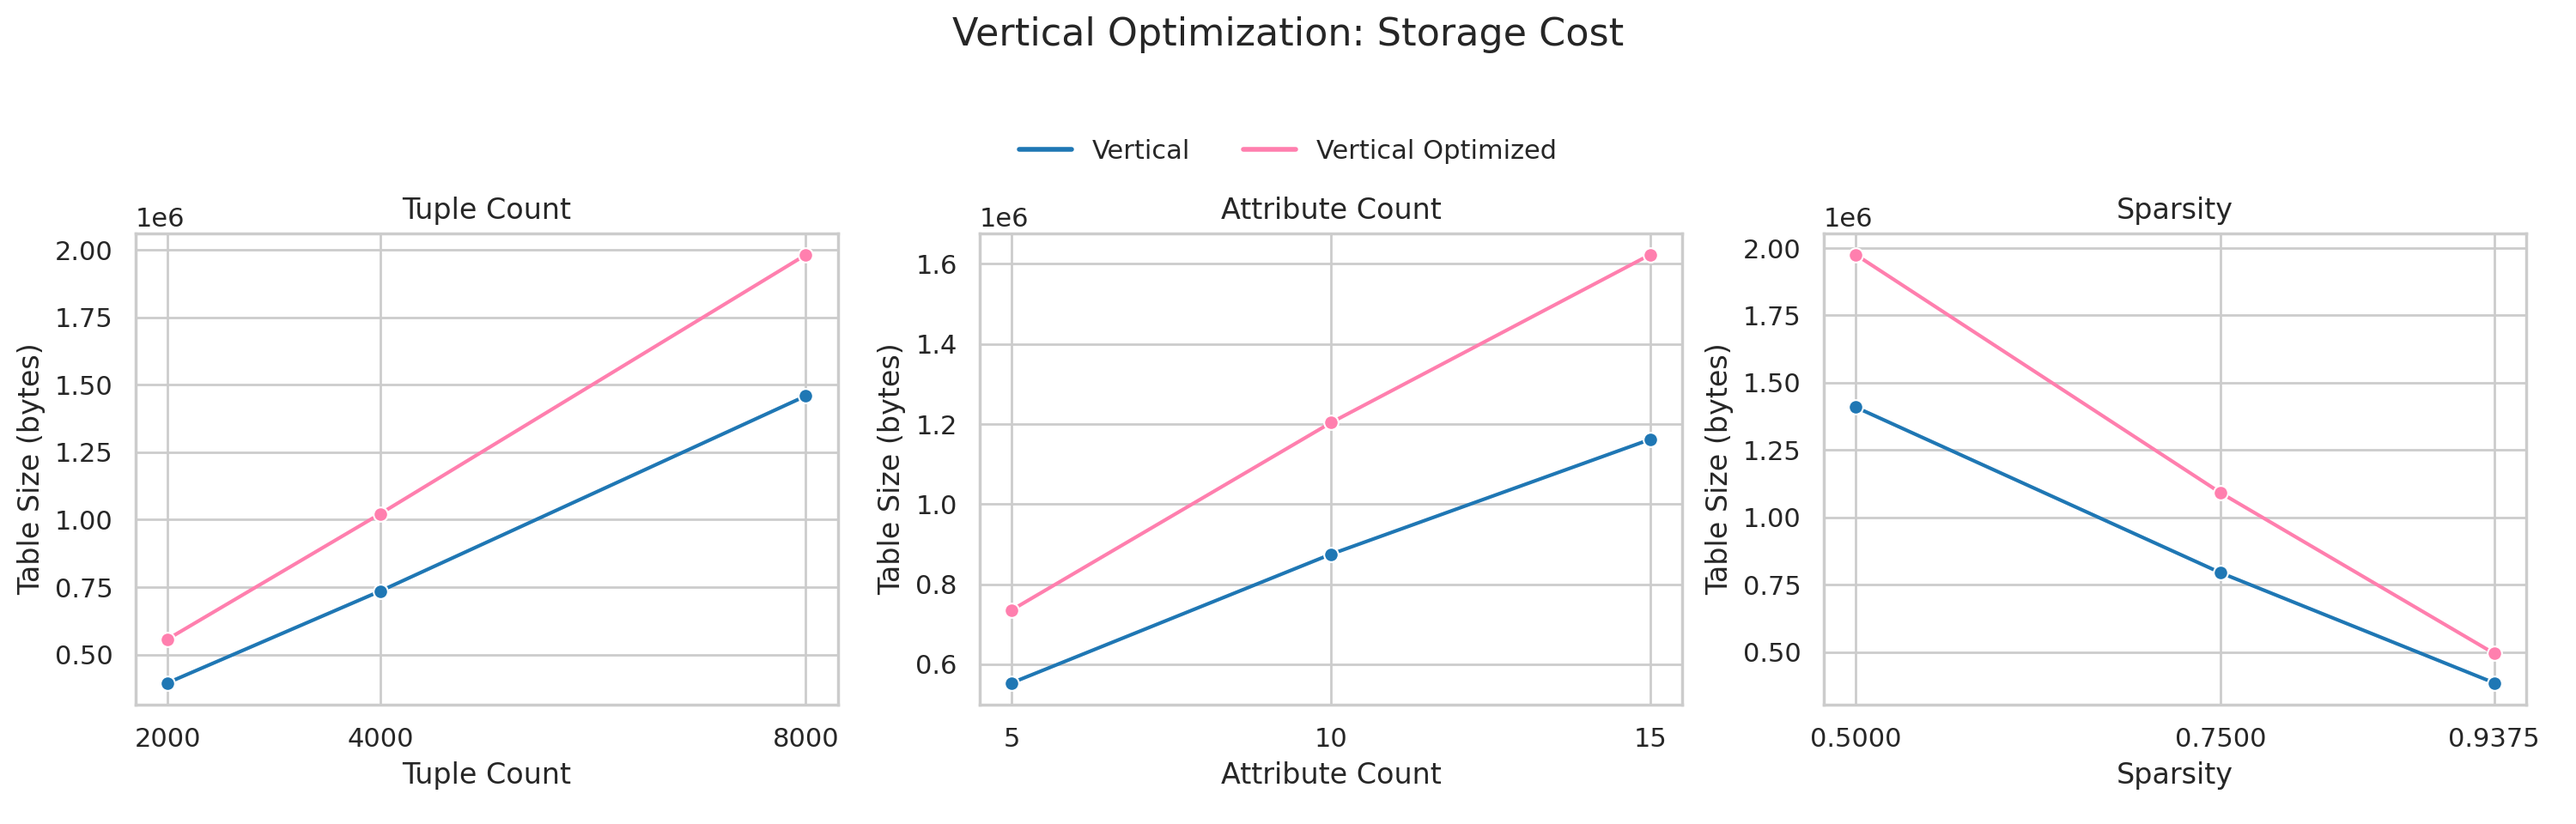
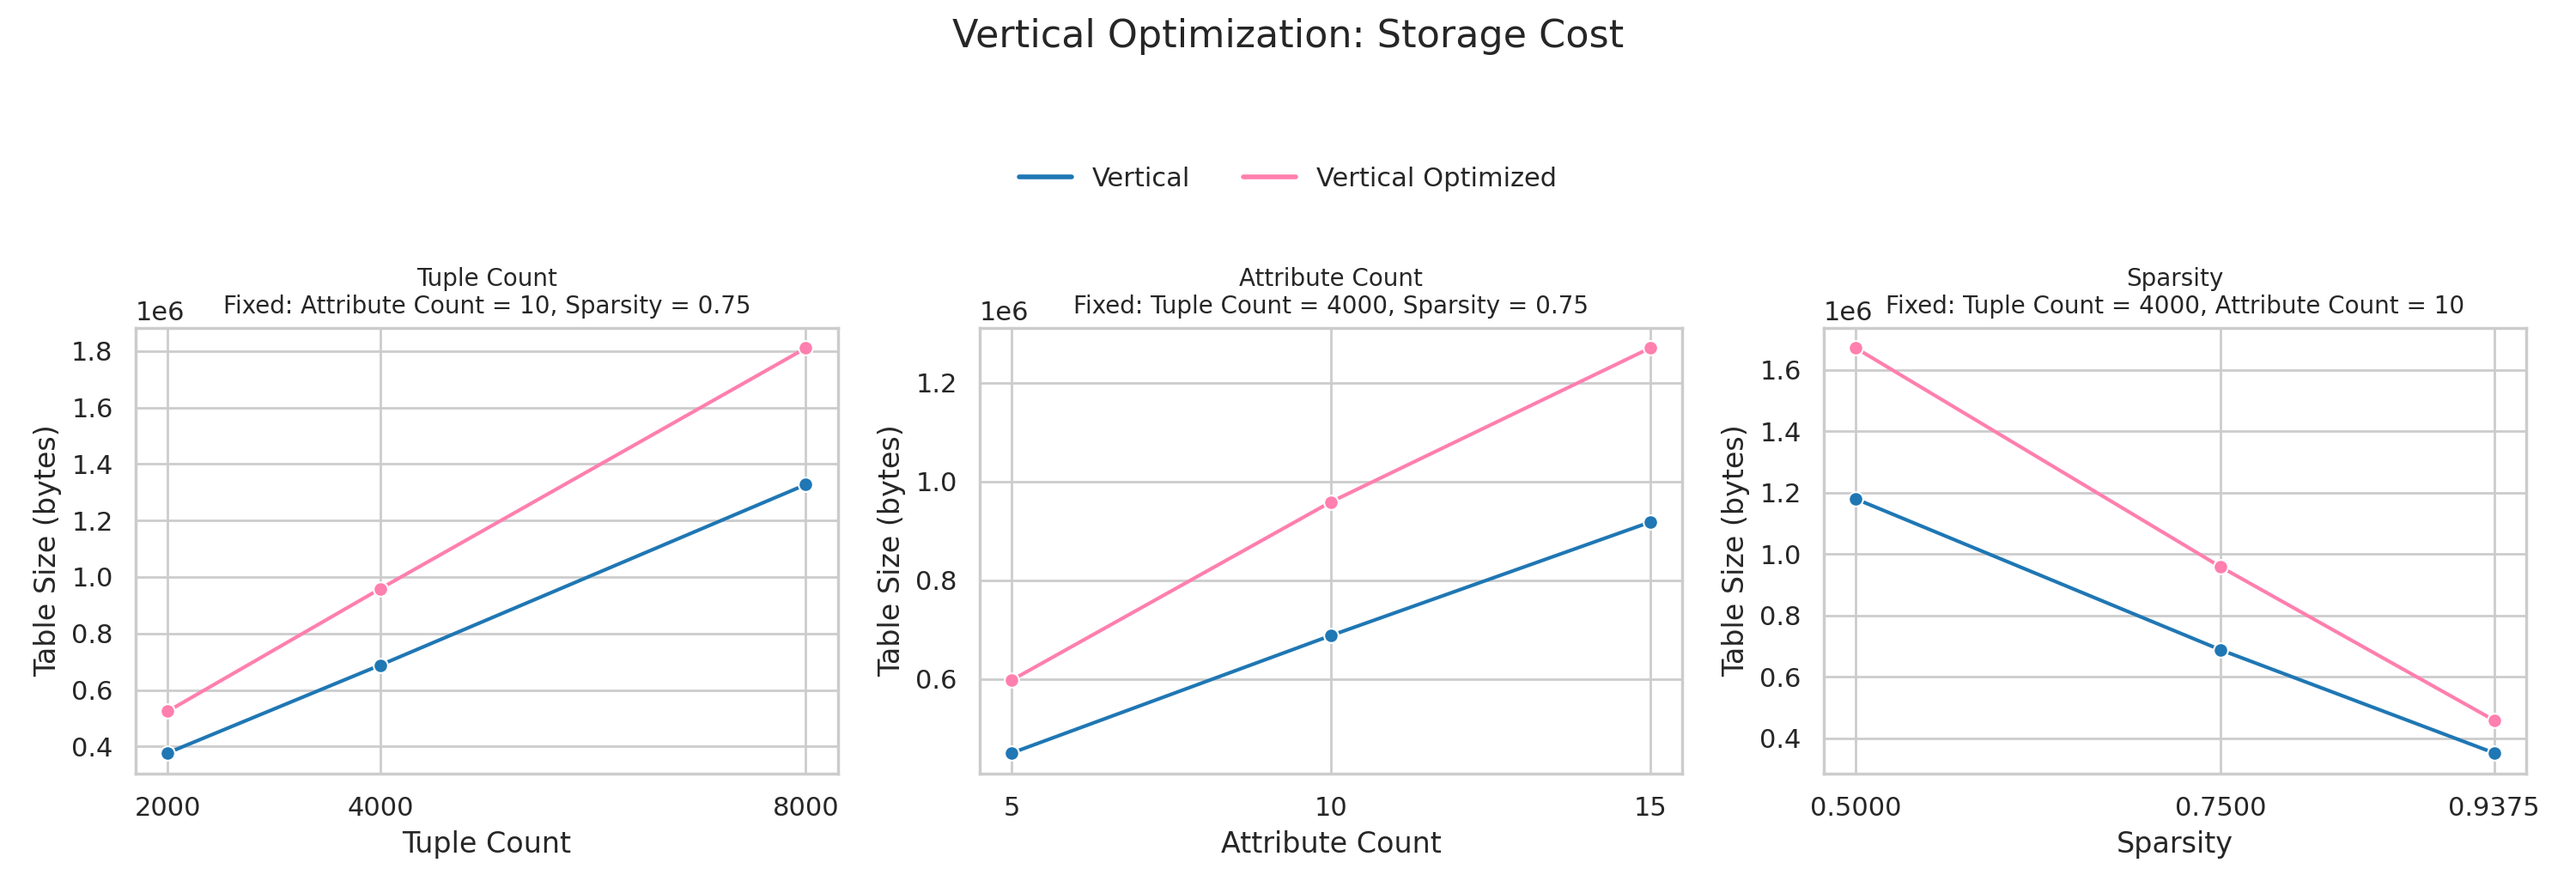
add labels to plots

diff --git a/code/create_plots.py b/code/create_plots.py
@@ -34,6 +34,12 @@ XLABELS = {
     "sparsity": "Sparsity",
 }
 
+BASELINE_VALUES = {
+    "tupleCount": 4000,
+    "attributeCount": 10,
+    "sparsity": 0.75,
+}
+
 FIGURES = [
     {
         "filename": "01_vertical_vs_optimized_queries.png",
@@ -78,9 +84,26 @@ def set_common_axis_labels(ax, x: str, y: str) -> None:
     ax.set_ylabel(y)
 
 
+def slice_for_dimension(df: pd.DataFrame, x: str) -> pd.DataFrame:
+    data = df.copy()
+    for dimension, value in BASELINE_VALUES.items():
+        if dimension != x:
+            data = data[data[dimension] == value]
+    return data
+
+
+def fixed_values_label(x: str) -> str:
+    fixed_parts = [
+        f"{XLABELS[dimension]} = {value}"
+        for dimension, value in BASELINE_VALUES.items()
+        if dimension != x
+    ]
+    return "Fixed: " + ", ".join(fixed_parts)
+
+
 def save_current_plot(fig, filename: str) -> None:
     OUTPUT_DIR.mkdir(exist_ok=True)
-    fig.tight_layout(rect=(0, 0, 1, 0.88))
+    fig.tight_layout(rect=(0, 0, 1, 0.84))
     fig.savefig(OUTPUT_DIR / filename, dpi=200)
     plt.close()
 
@@ -93,7 +116,8 @@ def representation_legend(representations: list[str]) -> list[Line2D]:
 
 
 def plot_queries_panel(ax, df: pd.DataFrame, representations: list[str], x: str) -> None:
-    data = df[df["representation"].isin(representations)]
+    data = slice_for_dimension(df, x)
+    data = data[data["representation"].isin(representations)]
     data_long = data.melt(
         id_vars=["representation", x],
         value_vars=["queryCount1", "queryCount2"],
@@ -121,11 +145,12 @@ def plot_queries_panel(ax, df: pd.DataFrame, representations: list[str], x: str)
         legend=None,
     )
     set_common_axis_labels(ax, x, "Query Count")
-    ax.set_title(XLABELS[x])
+    ax.set_title(f"{XLABELS[x]}\n{fixed_values_label(x)}", fontsize=10)
 
 
 def plot_size_panel(ax, df: pd.DataFrame, representations: list[str], x: str) -> None:
-    data = df[df["representation"].isin(representations)]
+    data = slice_for_dimension(df, x)
+    data = data[data["representation"].isin(representations)]
 
     sns.lineplot(
         ax=ax,
@@ -139,7 +164,7 @@ def plot_size_panel(ax, df: pd.DataFrame, representations: list[str], x: str) ->
         legend=None,
     )
     set_common_axis_labels(ax, x, "Table Size (bytes)")
-    ax.set_title(XLABELS[x])
+    ax.set_title(f"{XLABELS[x]}\n{fixed_values_label(x)}", fontsize=10)
 
 
 def plot_figure(df: pd.DataFrame, figure: dict[str, object]) -> None:
@@ -147,7 +172,7 @@ def plot_figure(df: pd.DataFrame, figure: dict[str, object]) -> None:
     if not isinstance(representations, list):
         raise TypeError("representations must be a list")
 
-    fig, axes = plt.subplots(1, 3, figsize=(15, 4.8))
+    fig, axes = plt.subplots(1, 3, figsize=(15, 5.2))
 
     for ax, x in zip(axes, XTICKS):
         if figure["metric"] == "queries":
@@ -164,7 +189,13 @@ def plot_figure(df: pd.DataFrame, figure: dict[str, object]) -> None:
         ]
 
     fig.suptitle(str(figure["title"]), fontsize=16)
-    fig.legend(handles=handles, loc="upper center", ncol=min(len(handles), 5), frameon=False, bbox_to_anchor=(0.5, 0.86))
+    fig.legend(
+        handles=handles,
+        loc="upper center",
+        ncol=min(len(handles), 5),
+        frameon=False,
+        bbox_to_anchor=(0.5, 0.84),
+    )
     save_current_plot(fig, str(figure["filename"]))
 
 
